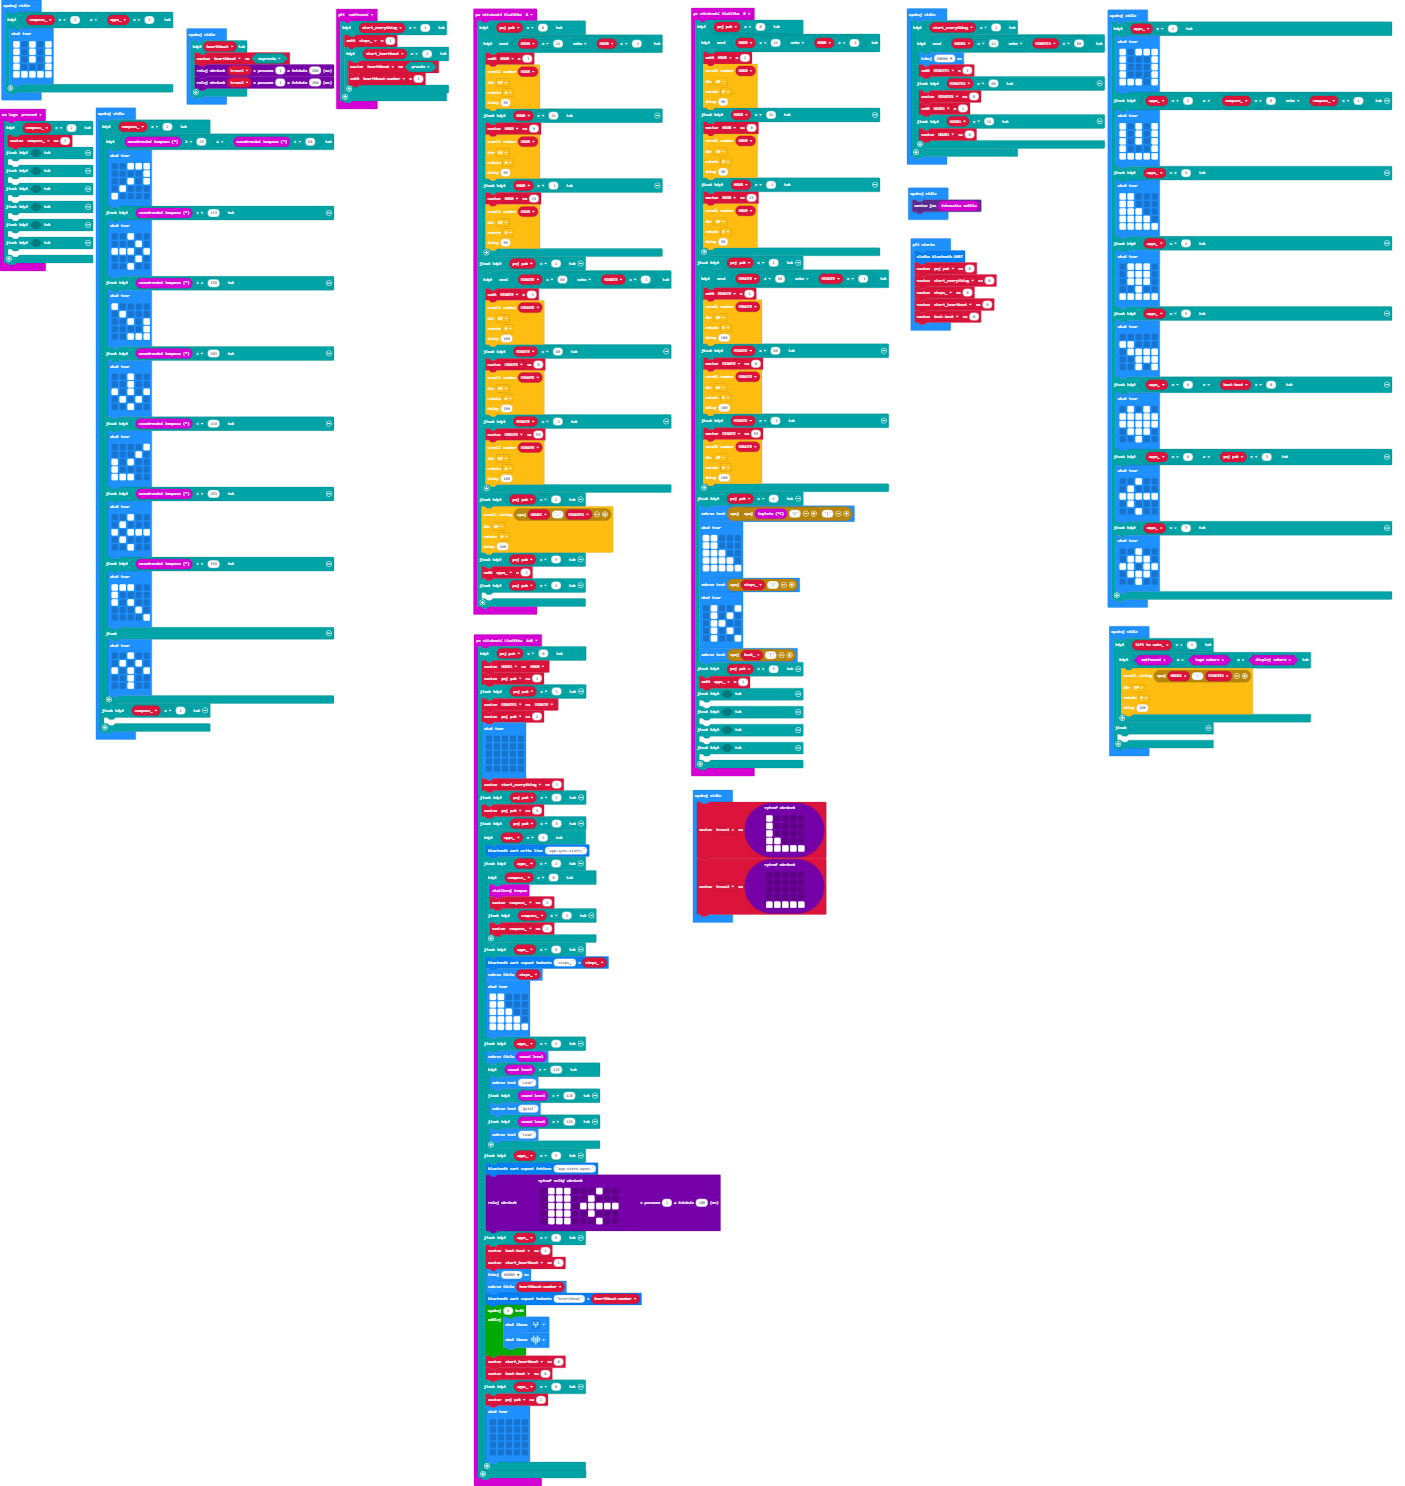
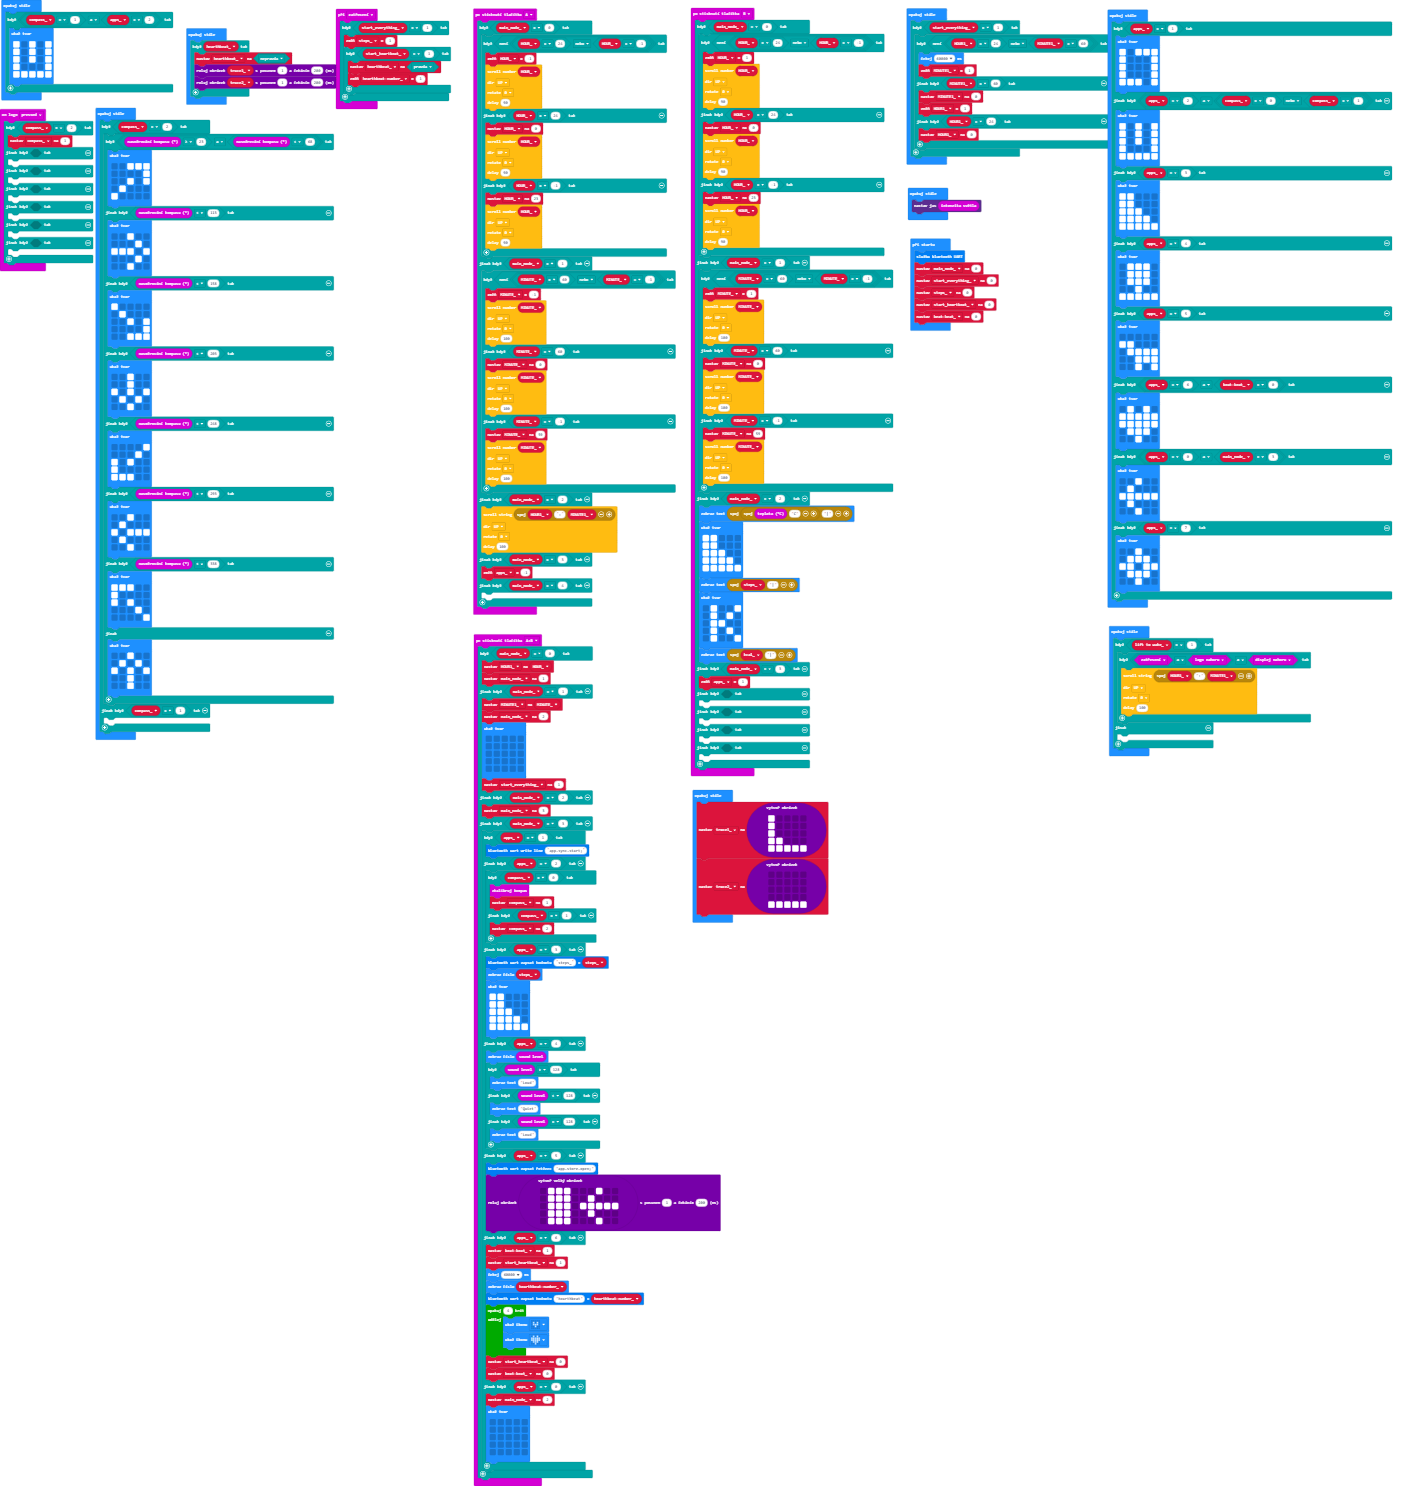
Aktualizovat main.blocks, main.ts

diff --git a/main.ts b/main.ts
@@ -1,76 +1,76 @@
 input.onButtonPressed(Button.A, function () {
-    if (poj_pak == 0) {
-        if (!(HOUR == 24 || HOUR == -1)) {
-            HOUR += -1
+    if (main_node_ == 0) {
+        if (!(HOUR_ == 24 || HOUR_ == -1)) {
+            HOUR_ += -1
             ScrolText.showNumber(
-            HOUR,
+            HOUR_,
             SCROLL_DIR.UP,
             SCROLL_ROTATE.SR_0,
             90
             )
-        } else if (HOUR == 24) {
-            HOUR = 0
+        } else if (HOUR_ == 24) {
+            HOUR_ = 0
             ScrolText.showNumber(
-            HOUR,
+            HOUR_,
             SCROLL_DIR.UP,
             SCROLL_ROTATE.SR_0,
             90
             )
-        } else if (HOUR == -1) {
-            HOUR = 23
+        } else if (HOUR_ == -1) {
+            HOUR_ = 23
             ScrolText.showNumber(
-            HOUR,
+            HOUR_,
             SCROLL_DIR.UP,
             SCROLL_ROTATE.SR_0,
             90
             )
         }
-    } else if (poj_pak == 1) {
-        if (!(MINUTE == 60 || MINUTE == -1)) {
-            MINUTE += -1
+    } else if (main_node_ == 1) {
+        if (!(MINUTE_ == 60 || MINUTE_ == -1)) {
+            MINUTE_ += -1
             ScrolText.showNumber(
-            MINUTE,
+            MINUTE_,
             SCROLL_DIR.UP,
             SCROLL_ROTATE.SR_0,
             100
             )
-        } else if (MINUTE == 60) {
-            MINUTE = 0
+        } else if (MINUTE_ == 60) {
+            MINUTE_ = 0
             ScrolText.showNumber(
-            MINUTE,
+            MINUTE_,
             SCROLL_DIR.UP,
             SCROLL_ROTATE.SR_0,
             100
             )
-        } else if (MINUTE == -1) {
-            MINUTE = 59
+        } else if (MINUTE_ == -1) {
+            MINUTE_ = 59
             ScrolText.showNumber(
-            MINUTE,
+            MINUTE_,
             SCROLL_DIR.UP,
             SCROLL_ROTATE.SR_0,
             100
             )
         }
-    } else if (poj_pak == 2) {
+    } else if (main_node_ == 2) {
         ScrolText.showString(
-        "" + HOUR1 + ":" + MINUTE1,
+        "" + HOUR1_ + ":" + MINUTE1_,
         SCROLL_DIR.UP,
         SCROLL_ROTATE.SR_0,
         100
         )
-    } else if (poj_pak == 3) {
+    } else if (main_node_ == 3) {
         apps_ += -1
-    } else if (poj_pak == 4) {
+    } else if (main_node_ == 4) {
     	
     }
 })
 input.onButtonPressed(Button.AB, function () {
-    if (poj_pak == 0) {
-        HOUR1 = HOUR
-        poj_pak = 1
-    } else if (poj_pak == 1) {
-        MINUTE1 = MINUTE
-        poj_pak = 2
+    if (main_node_ == 0) {
+        HOUR1_ = HOUR_
+        main_node_ = 1
+    } else if (main_node_ == 1) {
+        MINUTE1_ = MINUTE_
+        main_node_ = 2
         basic.showLeds(`
             . . . . .
             . . . . .
@@ -78,10 +78,10 @@ input.onButtonPressed(Button.AB, function () {
             . . . . .
             . . . . .
             `)
-        start_everything = 1
-    } else if (poj_pak == 2) {
-        poj_pak = 3
-    } else if (poj_pak == 3) {
+        start_everything_ = 1
+    } else if (main_node_ == 2) {
+        main_node_ = 3
+    } else if (main_node_ == 3) {
         if (apps_ == 1) {
             bluetooth.uartWriteLine("app.sync.start;")
         } else if (apps_ == 2) {
@@ -120,19 +120,19 @@ input.onButtonPressed(Button.AB, function () {
                 . # # # . . . # . .
                 `).scrollImage(1, 200)
         } else if (apps_ == 6) {
-            beatbeat = 1
-            start_heartbeat = 1
+            beatbeat_ = 1
+            start_heartbeat_ = 1
             basic.pause(60000)
-            basic.showNumber(hearthbeatnumber)
-            bluetooth.uartWriteValue("hearthbeat", hearthbeatnumber)
+            basic.showNumber(hearthbeatnumber_)
+            bluetooth.uartWriteValue("hearthbeat", hearthbeatnumber_)
             for (let index = 0; index < 4; index++) {
                 basic.showIcon(IconNames.SmallHeart)
                 basic.showIcon(IconNames.Heart)
             }
-            start_heartbeat = 0
-            beatbeat = 0
+            start_heartbeat_ = 0
+            beatbeat_ = 0
         } else if (apps_ == 0) {
-            poj_pak = 2
+            main_node_ = 2
             basic.showLeds(`
                 . . . . .
                 . . . . .
@@ -144,59 +144,59 @@ input.onButtonPressed(Button.AB, function () {
     }
 })
 input.onButtonPressed(Button.B, function () {
-    if (poj_pak == 0) {
-        if (!(HOUR == 24 || HOUR == -1)) {
-            HOUR += 1
+    if (main_node_ == 0) {
+        if (!(HOUR_ == 24 || HOUR_ == -1)) {
+            HOUR_ += 1
             ScrolText.showNumber(
-            HOUR,
+            HOUR_,
             SCROLL_DIR.UP,
             SCROLL_ROTATE.SR_0,
             90
             )
-        } else if (HOUR == 24) {
-            HOUR = 0
+        } else if (HOUR_ == 24) {
+            HOUR_ = 0
             ScrolText.showNumber(
-            HOUR,
+            HOUR_,
             SCROLL_DIR.UP,
             SCROLL_ROTATE.SR_0,
             90
             )
-        } else if (HOUR == -1) {
-            HOUR = 23
+        } else if (HOUR_ == -1) {
+            HOUR_ = 23
             ScrolText.showNumber(
-            HOUR,
+            HOUR_,
             SCROLL_DIR.UP,
             SCROLL_ROTATE.SR_0,
             90
             )
         }
-    } else if (poj_pak == 1) {
-        if (!(MINUTE == 60 || MINUTE == -1)) {
-            MINUTE += 1
+    } else if (main_node_ == 1) {
+        if (!(MINUTE_ == 60 || MINUTE_ == -1)) {
+            MINUTE_ += 1
             ScrolText.showNumber(
-            MINUTE,
+            MINUTE_,
             SCROLL_DIR.UP,
             SCROLL_ROTATE.SR_0,
             100
             )
-        } else if (MINUTE == 60) {
-            MINUTE = 0
+        } else if (MINUTE_ == 60) {
+            MINUTE_ = 0
             ScrolText.showNumber(
-            MINUTE,
+            MINUTE_,
             SCROLL_DIR.UP,
             SCROLL_ROTATE.SR_0,
             100
             )
-        } else if (MINUTE == -1) {
-            MINUTE = 59
+        } else if (MINUTE_ == -1) {
+            MINUTE_ = 59
             ScrolText.showNumber(
-            MINUTE,
+            MINUTE_,
             SCROLL_DIR.UP,
             SCROLL_ROTATE.SR_0,
             100
             )
         }
-    } else if (poj_pak == 2) {
+    } else if (main_node_ == 2) {
         let kcal_ = 0
         basic.showString("" + input.temperature() + "C" + "|")
         basic.showLeds(`
@@ -215,7 +215,7 @@ input.onButtonPressed(Button.B, function () {
             . # . . #
             `)
         basic.showString("" + kcal_ + "|")
-    } else if (poj_pak == 3) {
+    } else if (main_node_ == 3) {
         apps_ += 1
     } else if (false) {
     	
@@ -228,11 +228,11 @@ input.onButtonPressed(Button.B, function () {
     }
 })
 input.onGesture(Gesture.Shake, function () {
-    if (start_everything == 1) {
+    if (start_everything_ == 1) {
         steps_ += 1
-        if (start_heartbeat == 1) {
-            hearthbeat = true
-            hearthbeatnumber += 1
+        if (start_heartbeat_ == 1) {
+            hearthbeat_ = true
+            hearthbeatnumber_ += 1
         }
     }
 })
@@ -253,27 +253,27 @@ input.onLogoEvent(TouchButtonEvent.Pressed, function () {
     	
     }
 })
-let trace2: Image = null
-let trace1: Image = null
-let hearthbeat = false
-let hearthbeatnumber = 0
+let trace2_: Image = null
+let trace1_: Image = null
+let hearthbeat_ = false
+let hearthbeatnumber_ = 0
 let compass_ = 0
 let apps_ = 0
-let MINUTE1 = 0
-let HOUR1 = 0
-let MINUTE = 0
-let HOUR = 0
-let beatbeat = 0
-let start_heartbeat = 0
+let MINUTE1_ = 0
+let HOUR1_ = 0
+let MINUTE_ = 0
+let HOUR_ = 0
+let beatbeat_ = 0
+let start_heartbeat_ = 0
 let steps_ = 0
-let start_everything = 0
-let poj_pak = 0
+let start_everything_ = 0
+let main_node_ = 0
 bluetooth.startUartService()
-poj_pak = 0
-start_everything = 0
+main_node_ = 0
+start_everything_ = 0
 steps_ = 0
-start_heartbeat = 0
-beatbeat = 0
+start_heartbeat_ = 0
+beatbeat_ = 0
 basic.forever(function () {
     if (compass_ == 1 && apps_ == 2) {
         basic.showLeds(`
@@ -286,22 +286,22 @@ basic.forever(function () {
     }
 })
 basic.forever(function () {
-    if (hearthbeat) {
-        hearthbeat = false
-        trace1.scrollImage(1, 200)
-        trace2.scrollImage(1, 200)
+    if (hearthbeat_) {
+        hearthbeat_ = false
+        trace1_.scrollImage(1, 200)
+        trace2_.scrollImage(1, 200)
     }
 })
 basic.forever(function () {
-    if (start_everything == 1) {
-        if (!(HOUR1 == 24 || MINUTE1 == 60)) {
+    if (start_everything_ == 1) {
+        if (!(HOUR1_ == 24 || MINUTE1_ == 60)) {
             basic.pause(60000)
-            MINUTE1 += 1
-        } else if (MINUTE1 == 60) {
-            MINUTE1 = 0
-            HOUR1 += 1
-        } else if (HOUR1 == 24) {
-            HOUR1 = 0
+            MINUTE1_ += 1
+        } else if (MINUTE1_ == 60) {
+            MINUTE1_ = 0
+            HOUR1_ += 1
+        } else if (HOUR1_ == 24) {
+            HOUR1_ = 0
         }
     }
 })
@@ -346,7 +346,7 @@ basic.forever(function () {
             . . # # #
             . . # . #
             `)
-    } else if (apps_ == 6 && beatbeat == 0) {
+    } else if (apps_ == 6 && beatbeat_ == 0) {
         basic.showLeds(`
             . # . # .
             # # # # #
@@ -354,7 +354,7 @@ basic.forever(function () {
             . # # # .
             . . # . .
             `)
-    } else if (apps_ == 0 && poj_pak == 3) {
+    } else if (apps_ == 0 && main_node_ == 3) {
         basic.showLeds(`
             . . # . .
             . # . . .
@@ -451,7 +451,7 @@ basic.forever(function () {
     if (lift_to_wake_ == 1) {
         if (input.isGesture(Gesture.Shake) && input.isGesture(Gesture.LogoUp) && input.isGesture(Gesture.ScreenUp)) {
             ScrolText.showString(
-            "" + HOUR1 + ":" + MINUTE1,
+            "" + HOUR1_ + ":" + MINUTE1_,
             SCROLL_DIR.UP,
             SCROLL_ROTATE.SR_0,
             100
@@ -462,14 +462,14 @@ basic.forever(function () {
     }
 })
 basic.forever(function () {
-    trace1 = images.createImage(`
+    trace1_ = images.createImage(`
         # . . . .
         # . . . .
         # . . . .
         # # . . .
         # # # # #
         `)
-    trace2 = images.createImage(`
+    trace2_ = images.createImage(`
         . . . . .
         . . . . .
         . . . . .
